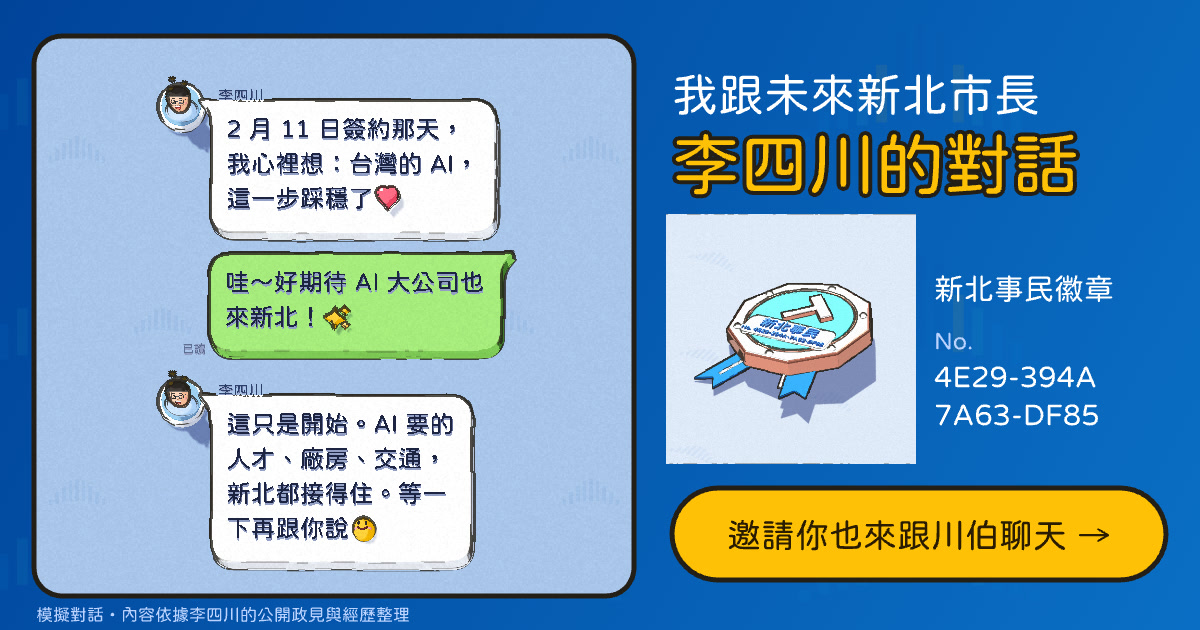
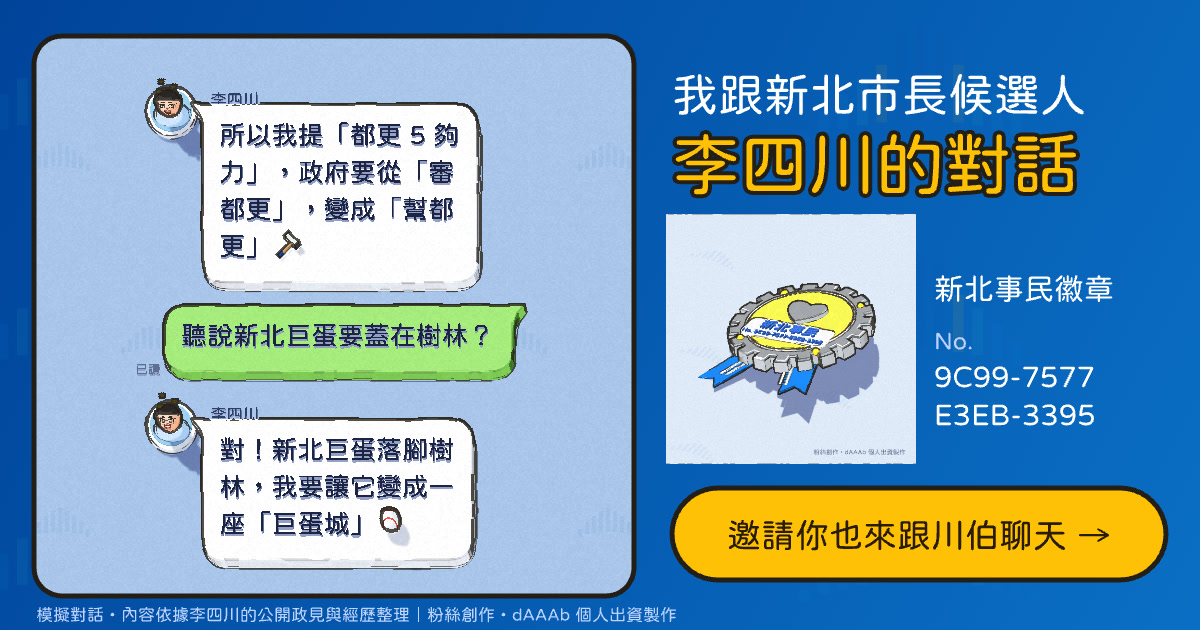
A supporter's fan project, voting-day pause, MIT licence, the making-of
As decided by dAAAb:
- 「粉絲創作・dAAAb 個人出資製作」 (CONFIG.credit) in small type on the cover,
  the about text, the voting-day notes and every exported picture (share card,
  long image, badge, stickers, 長輩圖, build cards, the default preview); the
  about text says it is not the campaign's official site
- 「新北市長候選人」 instead of 「未來新北市長」 everywhere (cover, cards,
  invite text, link previews, page meta, default preview image)
- voting day 2026-11-28 (src/chat/calendar.js): the page shows only a short
  "paused today" note and share links stop inviting; from 11/29 a thank-you
  note comes first and the chat can still be looked back on. Cached previews
  never outlive the day; ?day= works off the real site only
- the NVIDIA mini-model is 「國際 AI 總部大樓」
- photo viewer and policy cards say where the pictures come from
- LICENSE (MIT) for our own code; the notices and research/portaly say what
  it doesn't cover
- docs/MAKING-OF.md: the first prompt in full, every follow-up with its time,
  and the numbers; README links to it and the README media are re-recorded

diff --git a/src/main.js b/src/main.js
@@ -16,6 +16,9 @@ import { makeBadge, ensureEnvironment, shortId } from './models/badge.js';
 import { shareCard, longImage, badgeCanvas, stickerCanvas, renderSnippet, pickSnippet, buildCard } from './share/export.js';
 import { saveFile, shareFiles, copyText, canvasBlob, shareUrl, lineShareLink, recordChat, inArtifact } from './share/platform.js';
 import { initAnalytics, setAnalytics, track, trackThen } from './share/analytics.js';
+import { phaseAt } from './chat/calendar.js';
+import { showDayNotice } from './ui/daynotice.js';
+import { onPublicSite } from './config.js';
 import { burst } from './fx/confetti.js';
 import { Runner } from './fx/runner.js';
 import { Builds, BUILDS, TIERS, collection } from './fx/builds.js';
@@ -44,6 +47,11 @@ const SETTINGS_KEY = 'hl:settings';
 const saved = (() => { try { return JSON.parse(localStorage.getItem(SETTINGS_KEY) || '{}'); } catch (e) { return {}; } })();
 // usage statistics start before the letters load, so quick visits count too (設定 can turn them off)
 initAnalytics(saved.stats !== false, { dry: q.has('ga-dry') });
+// 11/28 is voting day: no campaigning, so the page pauses for the day; afterwards it thanks people first and the
+// chat can still be looked back on. ?day=YYYY-MM-DD tries a date, but never on the real site.
+const testDay = !onPublicSite && /^\d{4}-\d\d-\d\d$/.test(q.get('day') || '') ? Date.parse(q.get('day') + 'T12:00:00+08:00') : undefined;
+const phase = phaseAt(testDay);
+if (phase !== 'campaign') { track('day_notice', { phase }); await showDayNotice(phase); }
 const stage = new Stage(document.getElementById('stage'));
 const [font, photoAspect] = await Promise.all([
   GlyphFont.load('glyphs.txt'),
@@ -211,9 +219,12 @@ async function shareCanvas(cv, name, text) {
   if (!ok) { await copyText(shareUrl(chat.id)); toast('邀請連結已複製'); }
 }
 
-function viewer({ title, canvas, src, filename, alt, shareText, kind = 'item' }) {
+const SOURCE = '取自李四川官方 Portaly（portaly.cc/hammerlee），版權屬原權利人';
+
+function viewer({ title, canvas, src, filename, alt, shareText, kind = 'item', note }) {
   openSheet({ title }, sheet => {
     sheet.append(canvas ? picture(canvas, alt) : picture(src, alt));
+    if (note) sheet.append(para(note, 'note'));
     const acts = document.createElement('div');
     acts.className = 'acts two';
     const getCanvas = async () => {
@@ -253,7 +264,7 @@ function onTap(h) {
       break;
     }
     case 'photo':
-      viewer({ title: PHOTOS[h.id]?.alt || '川伯傳來的照片', src: `photos/${h.id}.jpg`, filename: `川伯-${h.id}.png`, alt: PHOTOS[h.id]?.alt, kind: h.type });
+      viewer({ title: PHOTOS[h.id]?.alt || '川伯傳來的照片', src: `photos/${h.id}.jpg`, filename: `川伯-${h.id}.png`, alt: PHOTOS[h.id]?.alt, kind: h.type, note: '照片' + SOURCE });
       break;
     case 'elder': {
       const e = ELDER[h.id];
@@ -270,7 +281,7 @@ function onTap(h) {
         for (const l of cd.lines) sheet.append(para('・' + l));
         const acts = document.createElement('div'); acts.className = 'acts';
         acts.append(linkButton('打開完整政見（新視窗）', cd.link, 'main'));
-        sheet.append(acts);
+        sheet.append(acts, para('政見圖文' + SOURCE, 'note'));
       });
       break;
     }
@@ -379,7 +390,7 @@ function openSettings() {
     const about = document.createElement('div'); about.className = 'about';
     about.innerHTML = `
       <h3>關於這個網頁</h3>
-      <p>這是李四川（川伯）競選團隊的互動網頁。內容依據川伯的公開政見與經歷整理，照片與政見圖卡取自
+      <p>這是支持者 dAAAb 個人出資製作的粉絲創作，不是李四川競選團隊的官方網站。對話是模擬的，內容依據川伯的公開政見與經歷整理，照片與政見圖卡取自
       <a href="https://portaly.cc/hammerlee" target="_blank" rel="noopener">李四川官方 Portaly</a>。</p>
       <h3>隱私</h3>
       <p>不需要登入，也不會要你輸入任何資料。對話結束時，只會記錄這段對話的編號、聊到的話題和時間，用來讓分享連結顯示預覽圖；
@@ -418,7 +429,7 @@ function openShare() {
     return;
   }
   const url = shareUrl(chat.id);
-  const invite = '我剛跟未來新北市長李四川聊天，還拿到專屬的新北事民徽章！你也來跟川伯聊聊天吧';
+  const invite = '我剛跟新北市長候選人李四川（川伯）聊天，還拿到專屬的新北事民徽章！你也來跟川伯聊聊天吧';
   openSheet({ title: '分享我跟川伯的對話' }, sheet => {
     sheet.append(para(`這段對話全世界只有你有。徽章編號 No. ${serial}`));
     const ph = placeholder('分享圖製作中…');
@@ -426,7 +437,7 @@ function openShare() {
     let card = null;
     requestAnimationFrame(() => setTimeout(() => {
       card = shareCard(stage, font, chat, builderOpts);
-      ph.replaceWith(picture(card, '分享圖：我跟未來新北市長李四川的對話'));
+      ph.replaceWith(picture(card, '分享圖：我跟新北市長候選人李四川的對話'));
     }, 30));
     const acts = document.createElement('div'); acts.className = 'acts';
     const native = !inArtifact && !!navigator.share;

diff --git a/src/share/export.js b/src/share/export.js
@@ -6,6 +6,7 @@ import { Builder } from '../chat/objects.js';
 import { sticker as makeSticker } from '../models/registry.js';
 import { makeBadge, shortId } from '../models/badge.js';
 import { renderObject, isolatedScene, makeCamera } from './render.js';
+import { CONFIG } from '../config.js';
 
 const NAVY = '#00449a', BLUE = '#0096e8', YELLOW = '#ffc105', TEAL = '#2ac9c9', INK = '#231e16';
 
@@ -85,17 +86,24 @@ export function pickSnippet(chat) {
   return msgs.filter(m => m.kind === 'text').slice(0, 3);
 }
 
+// a small line in the corner of a downloadable picture: who made it
+function credited(cv, font) {
+  const g = cv.getContext('2d');
+  if (g) text(g, font, CONFIG.credit, cv.width - 22, cv.height - 20, Math.round(cv.width / 40), '#6b7894', { align: 'right' });
+  return cv;
+}
+
 export function badgeCanvas(stage, font, chatId, size = 900, view = 'iso') {
   const b = makeBadge(chatId, font);
   b.userData.tick(0.6);
   const cv = renderObject(stage, b, { w: size, h: size, view, margin: 0.06, floor: ['#dfeaf8', '#d3e2f5'] });
   b.userData.dispose();
-  return cv;
+  return credited(cv, font);
 }
 
 export function stickerCanvas(stage, font, id, who, size = 900) {
   const s = makeSticker(id, font, who);
-  return renderObject(stage, s, { w: size, h: size, view: 'card', margin: 0.08, floor: ['#fff8e6', '#fbefcf'] });
+  return credited(renderObject(stage, s, { w: size, h: size, view: 'card', margin: 0.08, floor: ['#fff8e6', '#fbefcf'] }), font);
 }
 
 export function shareCard(stage, font, chat, builderOpts) {
@@ -112,7 +120,7 @@ export function shareCard(stage, font, chat, builderOpts) {
   g.lineWidth = 5; g.strokeStyle = INK; rr(g, 34, 36, 600, 560, 28); g.stroke();
   // right column
   const x = 672;
-  text(g, font, '我跟未來新北市長', x, 112, 46, '#ffffff');
+  text(g, font, '我跟新北市長候選人', x, 112, 46, '#ffffff');
   text(g, font, '李四川的對話', x, 190, 68, YELLOW, { stroke: INK, strokeW: 8 });
   const badge = badgeCanvas(stage, font, chat.id, 520, 'iso');
   g.drawImage(badge, x - 6, 214, 250, 250);
@@ -125,7 +133,7 @@ export function shareCard(stage, font, chat, builderOpts) {
   g.fillStyle = YELLOW; rr(g, x, 488, 494, 92, 46); g.fill();
   g.lineWidth = 5; g.strokeStyle = INK; g.stroke();
   text(g, font, '邀請你也來跟川伯聊天 →', x + 247, 548, 34, '#2a1c00', { align: 'center' });
-  text(g, font, '模擬對話・內容依據李四川的公開政見與經歷整理', 36, 621, 17, '#bcd3ff');
+  text(g, font, `模擬對話・內容依據李四川的公開政見與經歷整理｜${CONFIG.credit}`, 36, 621, 17, '#bcd3ff');
   return cv;
 }
 
@@ -183,7 +191,7 @@ export async function longImage(stage, font, chat, builderOpts, { width = 900, o
   g.fillStyle = YELLOW; g.fillRect(0, 286, 900, 14);
   logoBars(g, 770, 150, 60, 1);
   text(g, font, '我跟川伯的對話', 48, 118, 64, '#ffffff');
-  text(g, font, '未來新北市長 李四川', 50, 182, 34, '#bcd3ff');
+  text(g, font, '新北市長候選人 李四川', 50, 182, 34, '#bcd3ff');
   text(g, font, 'No. ' + shortId(chat.id), 50, 240, 30, YELLOW);
   g.restore();
   const fy = H - foot;
@@ -196,6 +204,7 @@ export async function longImage(stage, font, chat, builderOpts, { width = 900, o
   text(g, font, '你也來跟川伯聊聊天吧！', 320, 170, 38, INK);
   text(g, font, '11 月 28 日 新北的事 交給做過的人', 320, 236, 28, '#5d6f92');
   text(g, font, '模擬對話・內容依據川伯的公開政見與經歷整理', 320, 292, 22, '#5d6f92');
+  text(g, font, CONFIG.credit, 320, 330, 22, '#5d6f92');
   g.restore();
   return out;
 }
@@ -231,5 +240,6 @@ export function buildCard(stage, font, createScenery, b, tier, { have = 1, total
   lines.slice(0, 3).forEach((l, i) => text(g, font, l, W / 2, 962 + i * 48, 34, '#4a5570', { align: 'center' }));
   text(g, font, `圖鑑 ${have} / ${total}`, 80, H - 66, 30, NAVY);
   text(g, font, 'hammerlee.tw 跟川伯聊天', W - 80, H - 66, 30, NAVY, { align: 'right' });
+  text(g, font, CONFIG.credit, W / 2, H - 9, 22, '#ffffff', { align: 'center' });
   return cv;
 }

diff --git a/src/ui/daynotice.js b/src/ui/daynotice.js
@@ -1,0 +1,53 @@
+// The full-screen notes for voting day and after it (see src/chat/calendar.js). Plain HTML on the page's paper
+// colour, big type, no candidate pitch. Resolves when the visitor chooses to look back at the chat (after the
+// election only); on voting day it never resolves, so nothing else starts.
+import { CONFIG } from '../config.js';
+
+const TEXT = {
+  vote: {
+    title: '今天是投票日',
+    body: ['依照選舉規定，投票日當天不能進行競選活動，', '這個網頁今天暫停一天。'],
+  },
+  after: {
+    title: '謝謝你陪川伯聊天',
+    body: ['選舉已經結束了。', '謝謝這段時間每一位來聊天、分享的朋友。'],
+    button: '看看當時的對話',
+  },
+};
+
+export function showDayNotice(phase) {
+  const t = TEXT[phase];
+  const box = document.createElement('div');
+  box.id = 'day-notice';
+  box.setAttribute('role', 'dialog');
+  box.setAttribute('aria-label', t.title);
+  box.style.cssText = 'position:fixed;inset:0;z-index:50;display:flex;flex-direction:column;align-items:center;justify-content:center;gap:18px;'
+    + 'padding:24px max(24px,env(safe-area-inset-right)) calc(24px + env(safe-area-inset-bottom)) max(24px,env(safe-area-inset-left));'
+    + 'background:#fffdf6;color:#231e16;text-align:center;font-family:var(--ui-font, system-ui, sans-serif)';
+  const h = document.createElement('h1');
+  h.textContent = t.title;
+  h.style.cssText = 'margin:0;font-size:34px;line-height:1.3;color:#00449a';
+  box.append(h);
+  for (const line of t.body) {
+    const p = document.createElement('p');
+    p.textContent = line;
+    p.style.cssText = 'margin:0;font-size:21px;line-height:1.6;max-width:28em';
+    box.append(p);
+  }
+  let go = null;
+  if (t.button) {
+    const b = document.createElement('button');
+    b.type = 'button';
+    b.textContent = t.button;
+    b.style.cssText = 'margin-top:12px;min-height:60px;padding:10px 28px;font-family:inherit;font-weight:600;font-size:22px;line-height:1.2;color:#231e16;background:#ffc105;'
+      + 'border:3px solid #231e16;border-radius:18px;box-shadow:4px 4px 0 #231e16;cursor:pointer';
+    b.addEventListener('click', () => { box.remove(); go?.(); });
+    box.append(b);
+  }
+  const small = document.createElement('p');
+  small.textContent = CONFIG.credit;
+  small.style.cssText = 'position:absolute;bottom:calc(14px + env(safe-area-inset-bottom));margin:0;font-size:14px;color:#6b7894';
+  box.append(small);
+  document.body.append(box);
+  return new Promise(res => { go = res; });
+}

diff --git a/api/share.js b/api/share.js
@@ -8,6 +8,7 @@ import { CONFIG } from '../src/config.js';
 import { replayChat } from '../src/chat/generate.js';
 import { shortId } from '../src/chat/serial.js';
 import { NVIDIA, PAST, FUTURE_A, FUTURE_B } from '../src/chat/script.js';
+import { phaseAt, secondsToNextPhase } from '../src/chat/calendar.js';
 
 const SITE = CONFIG.publicUrl;
 const IMAGE = `${SITE}og-default.png`;
@@ -24,9 +25,15 @@ export default async function handler(req) {
   if (!chat || chat.id !== id) return Response.redirect(SITE, 302);
   const serial = shortId(id);
   const plans = chat.topics.filter(t => FUTURE.has(t)).map(t => TITLES[t]).filter(Boolean);
-  const target = `${SITE}#c-${id}`;
-  const title = '我跟未來新北市長李四川的對話';
-  const desc = `新北事民徽章 No. ${serial}・聊到${plans.slice(0, 3).join('、')}${plans.length > 3 ? '…' : ''}。邀請你也來跟川伯聊天`;
+  // voting day: no invitation and no pitch, just the paused page; afterwards a thank-you, and the chat stays viewable
+  const phase = phaseAt();
+  const target = phase === 'vote' ? SITE : `${SITE}#c-${id}`;
+  const title = phase === 'campaign' ? '我跟新北市長候選人李四川的對話' : '跟川伯聊天';
+  const desc = phase === 'campaign'
+    ? `新北事民徽章 No. ${serial}・聊到${plans.slice(0, 3).join('、')}${plans.length > 3 ? '…' : ''}。邀請你也來跟川伯聊天`
+    : phase === 'vote' ? '今天是投票日，這個網頁暫停一天。' : '謝謝你陪川伯聊天。';
+  // a cached copy must never outlive the day it was made for
+  const keep = Math.min(604800, secondsToNextPhase());
   const html = `<!doctype html><html lang="zh-Hant"><head><meta charset="utf-8">
 <title>${esc(title)}</title>
 <meta property="og:type" content="website"><meta property="og:title" content="${esc(title)}">
@@ -38,7 +45,7 @@ export default async function handler(req) {
   return new Response(html, { headers: {
     'content-type': 'text/html; charset=utf-8',
     // the page depends only on the id, so the CDN can keep it
-    'cache-control': 'public, max-age=3600, s-maxage=604800, stale-while-revalidate=86400',
+    'cache-control': `public, max-age=${Math.min(3600, keep)}, s-maxage=${keep}`,
     'x-robots-tag': 'noindex',
   } });
 }

diff --git a/src/chat/cover.js b/src/chat/cover.js
@@ -3,6 +3,7 @@
 import * as THREE from 'three';
 import { toon } from '../engine/toon.js';
 import { roundRect, slabFromShape } from './shapes.js';
+import { CONFIG } from '../config.js';
 
 const BAR_COLS = ['blue', 'blue', 'blue', 'teal', 'yellow', 'navy', 'navy', 'navy', 'yellow', 'teal', 'blue', 'blue', 'blue'];
 
@@ -41,7 +42,7 @@ export function buildCover(font, W) {
     g.add(t);
   }
   // subtitle
-  const sub = '未來新北市長 李四川 陪你話家常', ss = 0.74, sw = font.measure(sub, ss);
+  const sub = '新北市長候選人 李四川 陪你話家常', ss = 0.74, sw = font.measure(sub, ss);
   const sitems = [];
   pen = -sw / 2;
   for (const ch of sub) { sitems.push({ ch, x: pen, z: 7.95, size: ss, depth: 0.12, y: 0 }); pen += font.advance(ch) * ss; }
@@ -54,9 +55,15 @@ export function buildCover(font, W) {
   for (const ch of note) { nitems.push({ ch, x: pen, z: 8.95, size: ns, depth: 0.06, y: 0 }); pen += font.advance(ch) * ns; }
   const ngeo = font.build(nitems);
   if (ngeo) g.add(new THREE.Mesh(ngeo, toon('text', { top: '#5d6f92', text: true })));
+  // and who made it
+  const cs = 0.4, cw = font.measure(CONFIG.credit, cs), citems = [];
+  pen = -cw / 2;
+  for (const ch of CONFIG.credit) { citems.push({ ch, x: pen, z: 9.6, size: cs, depth: 0.05, y: 0 }); pen += font.advance(ch) * cs; }
+  const cgeo = font.build(citems);
+  if (cgeo) g.add(new THREE.Mesh(cgeo, toon('text', { top: '#7d8aa6', text: true })));
   g.userData.tick = t => {
     bars.children.forEach((b, k) => { b.scale.y = 1 + Math.sin(t * 2.2 - k * 0.45) * 0.06; });
   };
-  g.userData.size = { w: Math.max(plateW, 11), h: 9.8 };
+  g.userData.size = { w: Math.max(plateW, 11), h: 10.4 };
   return g;
 }

diff --git a/src/dev/og-lab.js b/src/dev/og-lab.js
@@ -4,6 +4,7 @@ import { bench } from './harness.js';
 import { buildCover } from '../chat/cover.js';
 import { renderObject } from '../share/render.js';
 import { createChuanSticker } from '../models/stickers-chuan.js';
+import { CONFIG } from '../config.js';
 
 const b = await bench();
 const { font, stage } = b;
@@ -21,7 +22,7 @@ const text = (str, x, y, size, fill, stroke) => {
   if (stroke) { g.lineJoin = 'round'; g.lineWidth = size * 0.14; g.strokeStyle = stroke; g.stroke(path); }
   g.fillStyle = fill; g.fill(path);
 };
-text('跟未來新北市長', 716, 140, 48, '#ffffff');
+text('跟新北市長候選人', 716, 140, 48, '#ffffff');
 text('李四川聊天', 716, 226, 76, '#ffc105', '#231e16');
 text('不用打字，往下滑就好', 718, 296, 34, '#bcd3ff');
 text('每段對話都獨一無二', 718, 344, 34, '#bcd3ff');
@@ -31,6 +32,7 @@ g.lineWidth = 4; g.strokeStyle = '#231e16'; g.beginPath(); g.roundRect(905, 378,
 g.fillStyle = '#ffc105'; g.beginPath(); g.roundRect(716, 452, 166, 68, 34); g.fill();
 g.lineWidth = 4; g.strokeStyle = '#231e16'; g.stroke();
 text('開始 →', 748, 499, 32, '#2a1c00');
+text(`模擬對話・內容依據李四川的公開政見與經歷整理｜${CONFIG.credit}`, 38, 616, 17, '#bcd3ff');
 const img = new Image();
 img.src = cv.toDataURL('image/png');
 Object.assign(img.style, { position: 'fixed', left: 0, top: 0, width: W + 'px', height: H + 'px', zIndex: 99 });

diff --git a/src/config.js b/src/config.js
@@ -4,11 +4,14 @@ export const CONFIG = {
   publicUrl: 'https://hammerlee.tw/',
   // the claude.ai Artifact preview (share links there replay with #c-<id>)
   artifactUrl: 'https://claude.ai/artifact/1nBMLPFG1k6eSAowwYJkmN',
-  // Supabase project hammerlee-tw (Tokyo). The anon key is public by design: row-level security decides what
-  // it may do (add a finished chat, read one back, attach its share picture once).
+  // Supabase project hammerlee-tw (Tokyo). The anon key is public by design: it can only add a finished chat
+  // (row-level security and column grants, supabase/migrations/), nothing else.
   supabaseUrl: 'https://ksbsjodfubmtttklalob.supabase.co',
-  gaId: 'G-0MRNRPCG0C',
   supabaseAnonKey: 'eyJhbGciOiJIUzI1NiIsInR5cCI6IkpXVCJ9.eyJpc3MiOiJzdXBhYmFzZSIsInJlZiI6ImtzYnNqb2RmdWJtdHR0a2xhbG9iIiwicm9sZSI6ImFub24iLCJpYXQiOjE3OTI3NTEwNjYsImV4cCI6MjEwODMyNzA2Nn0.YyFQhLMJOYgnb8R73ZKPuqGDo-djvCvp9rvo3WMpP4E',
+  // Google Analytics 4 (src/share/analytics.js), only on the public site and only if the visitor allows it
+  gaId: 'G-0MRNRPCG0C',
+  // who made and paid for this (a supporter's own fan project, not the campaign's), shown small on the page and every picture
+  credit: '粉絲創作・dAAAb 個人出資製作',
 };
 
 // Only the real site writes to the database; local testing and the Artifact preview never do.

diff --git a/src/fx/builds.js b/src/fx/builds.js
@@ -27,7 +27,7 @@ export const BUILDS = [
   { id: 'hospital', tier: 'SR', model: 'medical', name: '土城醫院', note: '從會勘、協調到一層一層蓋起來，跟了五年。' },
   { id: 'rail', tier: 'SR', model: 'rail', name: '三環三線', note: '參與規劃。當年被笑「夢裡相見」，現在環狀線、機場線、淡海輕軌都在跑。' },
   { id: 'dome', tier: 'SSR', model: 'domecity', name: '台北大巨蛋', note: '他說：協助解決大巨蛋卡關，讓它完工啟用。' },
-  { id: 'nvidia', tier: 'SSR', model: 'nvidia', name: '輝達海外總部（北士科）', note: '提出第三方鑑價解開僵局，2026 年 2 月代表台北市政府和輝達簽約。' },
+  { id: 'nvidia', tier: 'SSR', model: 'nvidia', name: '國際 AI 總部大樓（北士科）', note: '提出第三方鑑價解開用地僵局，2026 年 2 月代表台北市政府簽約。' },
   { id: 'lushe', tier: 'UR', model: 'ai', name: '蘆社大橋（下一段路）', note: '政見：興建蘆社大橋，串起北士科和新北的 AI 產業。' },
 ];
 const SCALE = 0.32;                       // dioramas are ~7 em across: builds are ~2.2 em

diff --git a/src/chat/calendar.js b/src/chat/calendar.js
@@ -1,0 +1,19 @@
+// Voting day is 2026-11-28. Campaigning isn't allowed on voting day, so on that day (Taiwan time) the page pauses
+// and share links stop inviting people to chat; from the next day on, the page says thank you first and the chat
+// can still be looked back on. Used by the page (src/main.js) and the link previews (api/share.js).
+export const VOTING_DAY = '2026-11-28';
+const TW = 8 * 3600e3;                                   // Taiwan is UTC+8 all year
+const DAY_START = Date.parse(`${VOTING_DAY}T00:00:00+08:00`);
+const DAY_END = DAY_START + 24 * 3600e3;
+
+// 'campaign' before voting day, 'vote' on it, 'after' from the next day
+export function phaseAt(ms = Date.now()) {
+  const day = new Date(ms + TW).toISOString().slice(0, 10);
+  return day < VOTING_DAY ? 'campaign' : day === VOTING_DAY ? 'vote' : 'after';
+}
+
+// seconds until the phase can next change (for how long a page may be cached)
+export function secondsToNextPhase(ms = Date.now()) {
+  const next = ms < DAY_START ? DAY_START : ms < DAY_END ? DAY_END : Infinity;
+  return Math.max(0, Math.floor((next - ms) / 1000));
+}

diff --git a/src/share/elder.js b/src/share/elder.js
@@ -2,6 +2,7 @@
 // painted on a canvas with the same 粉圓 outlines as the 3D letters, so it never depends on a system font.
 import * as THREE from 'three';
 import { ELDER } from '../chat/script.js';
+import { CONFIG } from '../config.js';
 
 const THEMES = {
   sunrise: { sky: ['#ffe9a8', '#ffb36b', '#ff7d7d'], ray: 'rgba(255,255,255,.28)', ink: ['#d6261f', '#1f4fa8'], flower: ['#ff5d8f', '#ffd23a', '#ff8a3d'] },
@@ -89,6 +90,10 @@ export function drawElder(font, id, W = 720, H = 900) {
   const { path: sigp } = font.path2d(sig, W - sgw - 28, H - 24, sg);
   g.lineWidth = 8; g.strokeStyle = '#ffffff'; g.lineJoin = 'round'; g.stroke(sigp);
   g.fillStyle = '#00449a'; g.fill(sigp);
+  // who made it, small in the other corner
+  const { path: cp } = font.path2d(CONFIG.credit, 22, H - 26, 19);
+  g.lineWidth = 6; g.strokeStyle = 'rgba(255,255,255,.85)'; g.stroke(cp);
+  g.fillStyle = '#4a5570'; g.fill(cp);
   return cv;
 }
 

diff --git a/src/chat/layout.js b/src/chat/layout.js
@@ -37,7 +37,7 @@ export function layoutChat(chat, font, opts) {
   const rng = mulberry32(hashString(String(chat.id))[0]);
 
   // the cover sits above the first message (not in snippets or replays of a few lines)
-  if (opts.cover) { items.push({ msg: { kind: 'cover' }, kind: 'cover', z: 0, h: 10, x: 0, w: W, who: 'sys' }); z = 10; }
+  if (opts.cover) { items.push({ msg: { kind: 'cover' }, kind: 'cover', z: 0, h: 10.6, x: 0, w: W, who: 'sys' }); z = 10.6; }
 
   for (const msg of chat.msgs) {
     if (msg.kind === 'topic') { items.push({ msg, kind: 'topic', z, h: 0, x: 0, w: 0 }); continue; }

diff --git a/src/shell.html b/src/shell.html
@@ -1,5 +1,5 @@
 <title>跟川伯聊天</title>
-<meta name="description" content="一頁滑到底的 3D LINE 對話：未來新北市長李四川（川伯）跟你話家常、聊新北的下一段路。">
+<meta name="description" content="一頁滑到底的 3D LINE 對話：新北市長候選人李四川（川伯）跟你話家常、聊新北的下一段路。">
 <style>
 :root {
   --floor: #a9c6ea;
